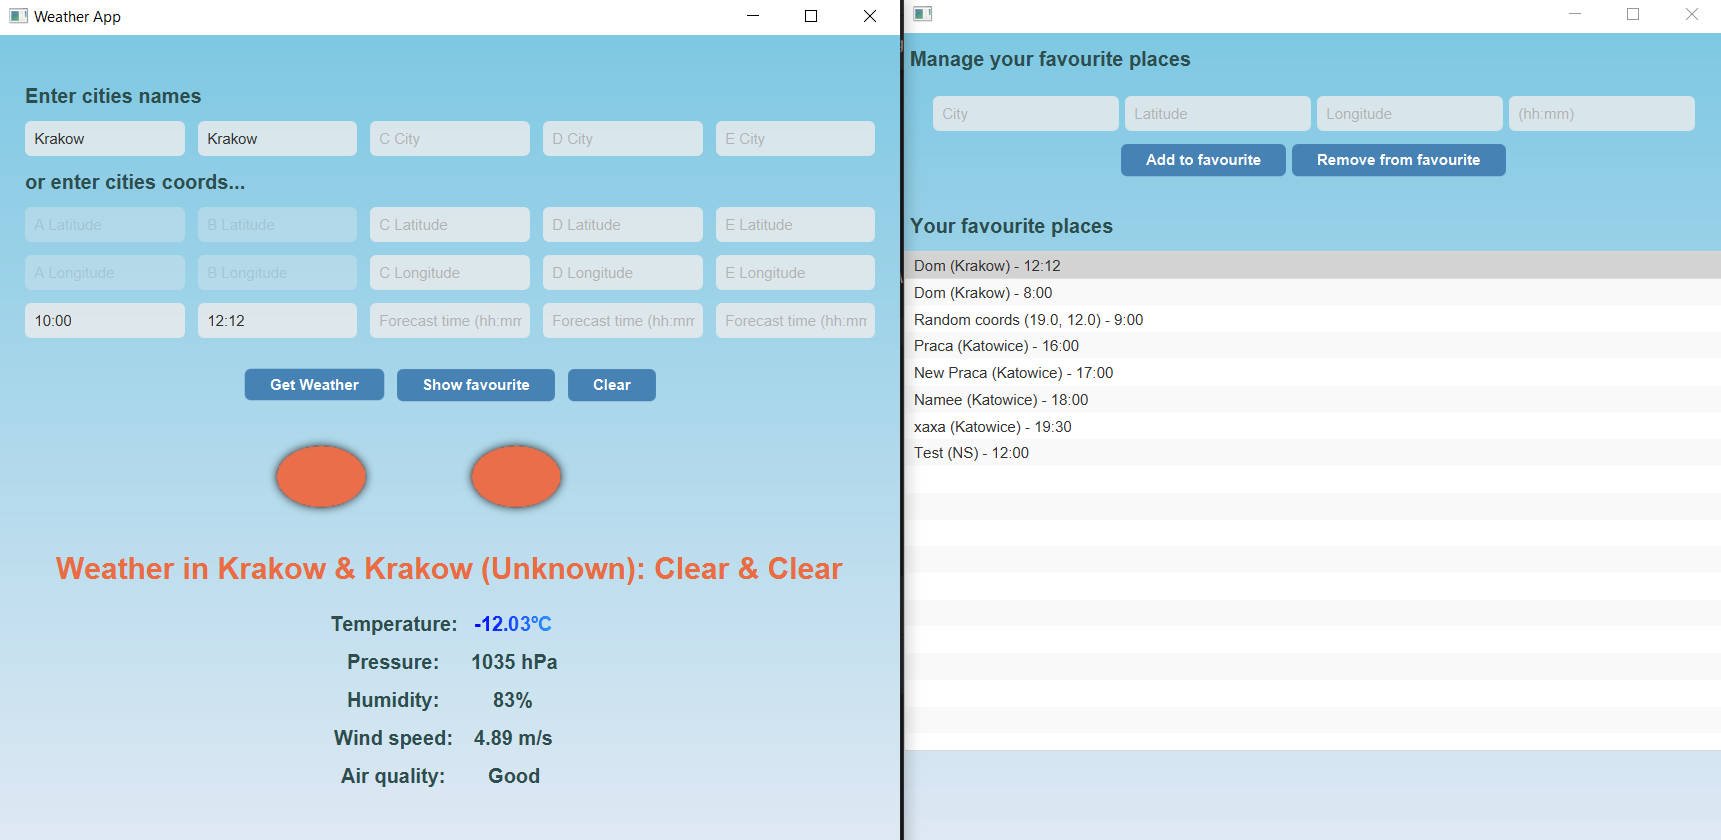
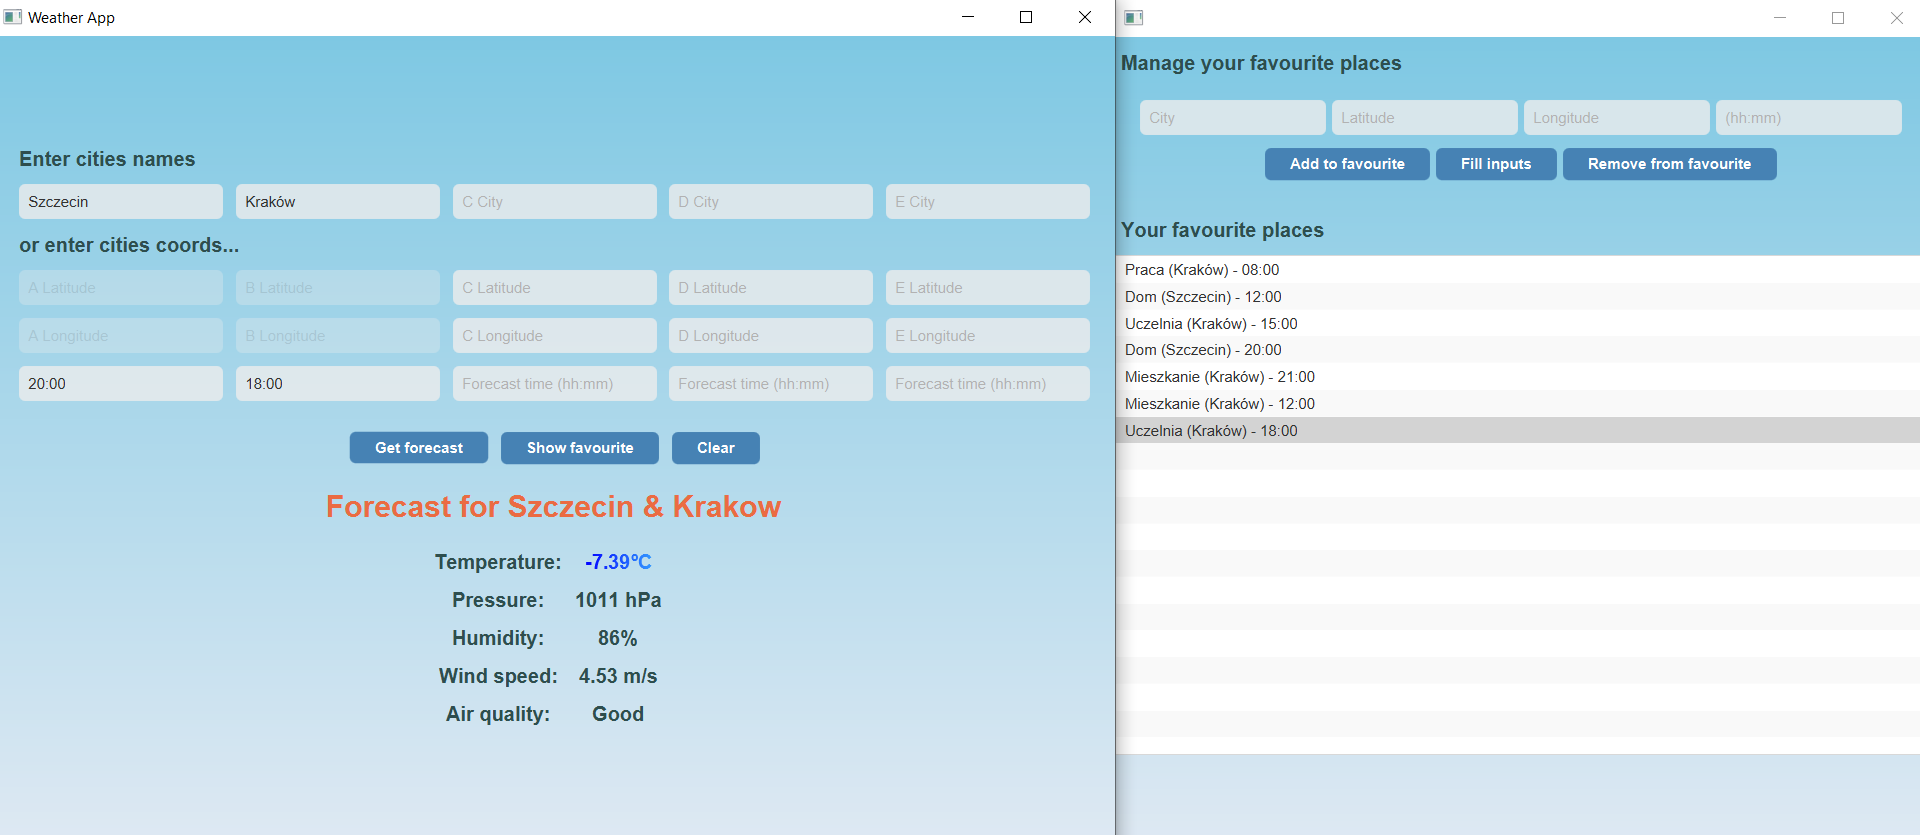
Updated documentation, added new screens

diff --git a/README.md b/README.md
@@ -528,7 +528,7 @@ Mimo że liczba zależności znacznie się zwiększyła, to nadal zachowaliśmy 
 
 Poniżej przedstawiamy przykładowe działanie aplikacji. Pokażemy każdy z możliwych wariantów.
 
-#### Stan początkowy aplikacji
+#### Wyszukanie dla jednego miasta
 
 <p align="center">
   <img src="./Screens/weather_app_M3.png" alt="Tutaj jest zdjęcie aplikacji" width="600">
@@ -549,12 +549,44 @@ Możemy zauważyć, że dane jak poprzednio są mergowane za pomocą WeatherData
 
 Od teraz możemy sprawdzać pogodę w 5 miejscach jednocześnie.
 
+#### Wyszukanie dla koordynatów
+
+<p align="center">
+  <img src="./Screens/weather_app_M3_coord.png" alt="Tutaj jest zdjęcie aplikacji" width="600">
+
+Możemy także sprawdzać pogodę po koordynatach geograficznych. Działa to analogicznie jak w przypadku nazwy miasta.
+
 #### Ulubione miejsca
 
 <p align="center">
   <img src="./Screens/weather_app_M3_favourites.png" alt="Tutaj jest zdjęcie aplikacji" width="600">
 
 Możemy także dodawać ulubione miejsca, aby łatwo sprawdzić pogodę w swoich ulubionych miejscach.
+
+### Co z perspektywy czasu moglibyśmy zrobić lepiej?
+
+Z perspektywy czasu, mogliśmy pomyśleć nad wykorzystaniem innego wzorca projektowego np. MVVC.
+Mogliśmy także, lepiej rozplanowywać czas, aby nie zostawiać wszystkiego na ostatnią chwilę.
+Warto także wspomnieć, że mogliśmy od razu przygotowywać się pod niektóre zmiany, które pojawiły się w kolejnych Milestone'ach.
+
+### Jakie problemy napotkaliśmy?
+
+Największym problemem, z którym się spotkaliśmy, było dodanie możliwości wyboru 5 miejsc. Wymagało to zmiany wielu klas, a także dodania nowych. Dodatkowo musieliśmy zmodyfikować widok, aby wyświetlał dane w odpowiedni sposób.
+Problematyczne było również pisanie testów, gdyż nie wszystko dało się przetestować. Musieliśmy użyć mockito, ale czasem problem wynikał z prywatności metod.
+Wiele kłopotów sprawiło nam także dodanie możliwości wyboru godziny, gdyż musieliśmy zmodyfikować widok, a także dodać klasy, które pomogły nam w pobieraniu prognozy pogody.
+
+### Które części były najprzyjemniejsze do pisania?
+
+Bardzo przyjemnie dodawało się elementy, które mogliśmy już zobaczyć w naszej aplikacji, np. ikonki albo całą prognozę pogody.
+Również pisanie testów było całkiem ciekawe i rozwijające, jednak jak wyżej wspomnieliśmy, nie wszystko dało się przetestować.
+Myślimy, że także dodawanie ulubionych miejsc było całkiem przyjemne, gdyż mogliśmy zobaczyć, że nasza aplikacja jest coraz bardziej funkcjonalna.
+
+### Czy przerwa świąteczna miała wpływ na pracę nad projektem?
+
+Przerwa zdecydowanie miała wpływ na pracę nad projektem. Z jednej strony mogliśmy odpocząć od projektu, jednak po czasie nie wszystko w kodzie jest takie oczywiste, jak było.
+Jak to studenci mają w zwyczaju, zostawiliśmy wszystko na ostatnią chwilę, co nie było najlepszym pomysłem. Warto było wcześniej zacząć pracę nad projektem, przynajmniej ten dzień wcześniej.
+Jednak koniec konców udało nam się zrealizować wszystkie założenia, które sobie postawiliśmy.
+
 
 ### Podsumowanie
 
